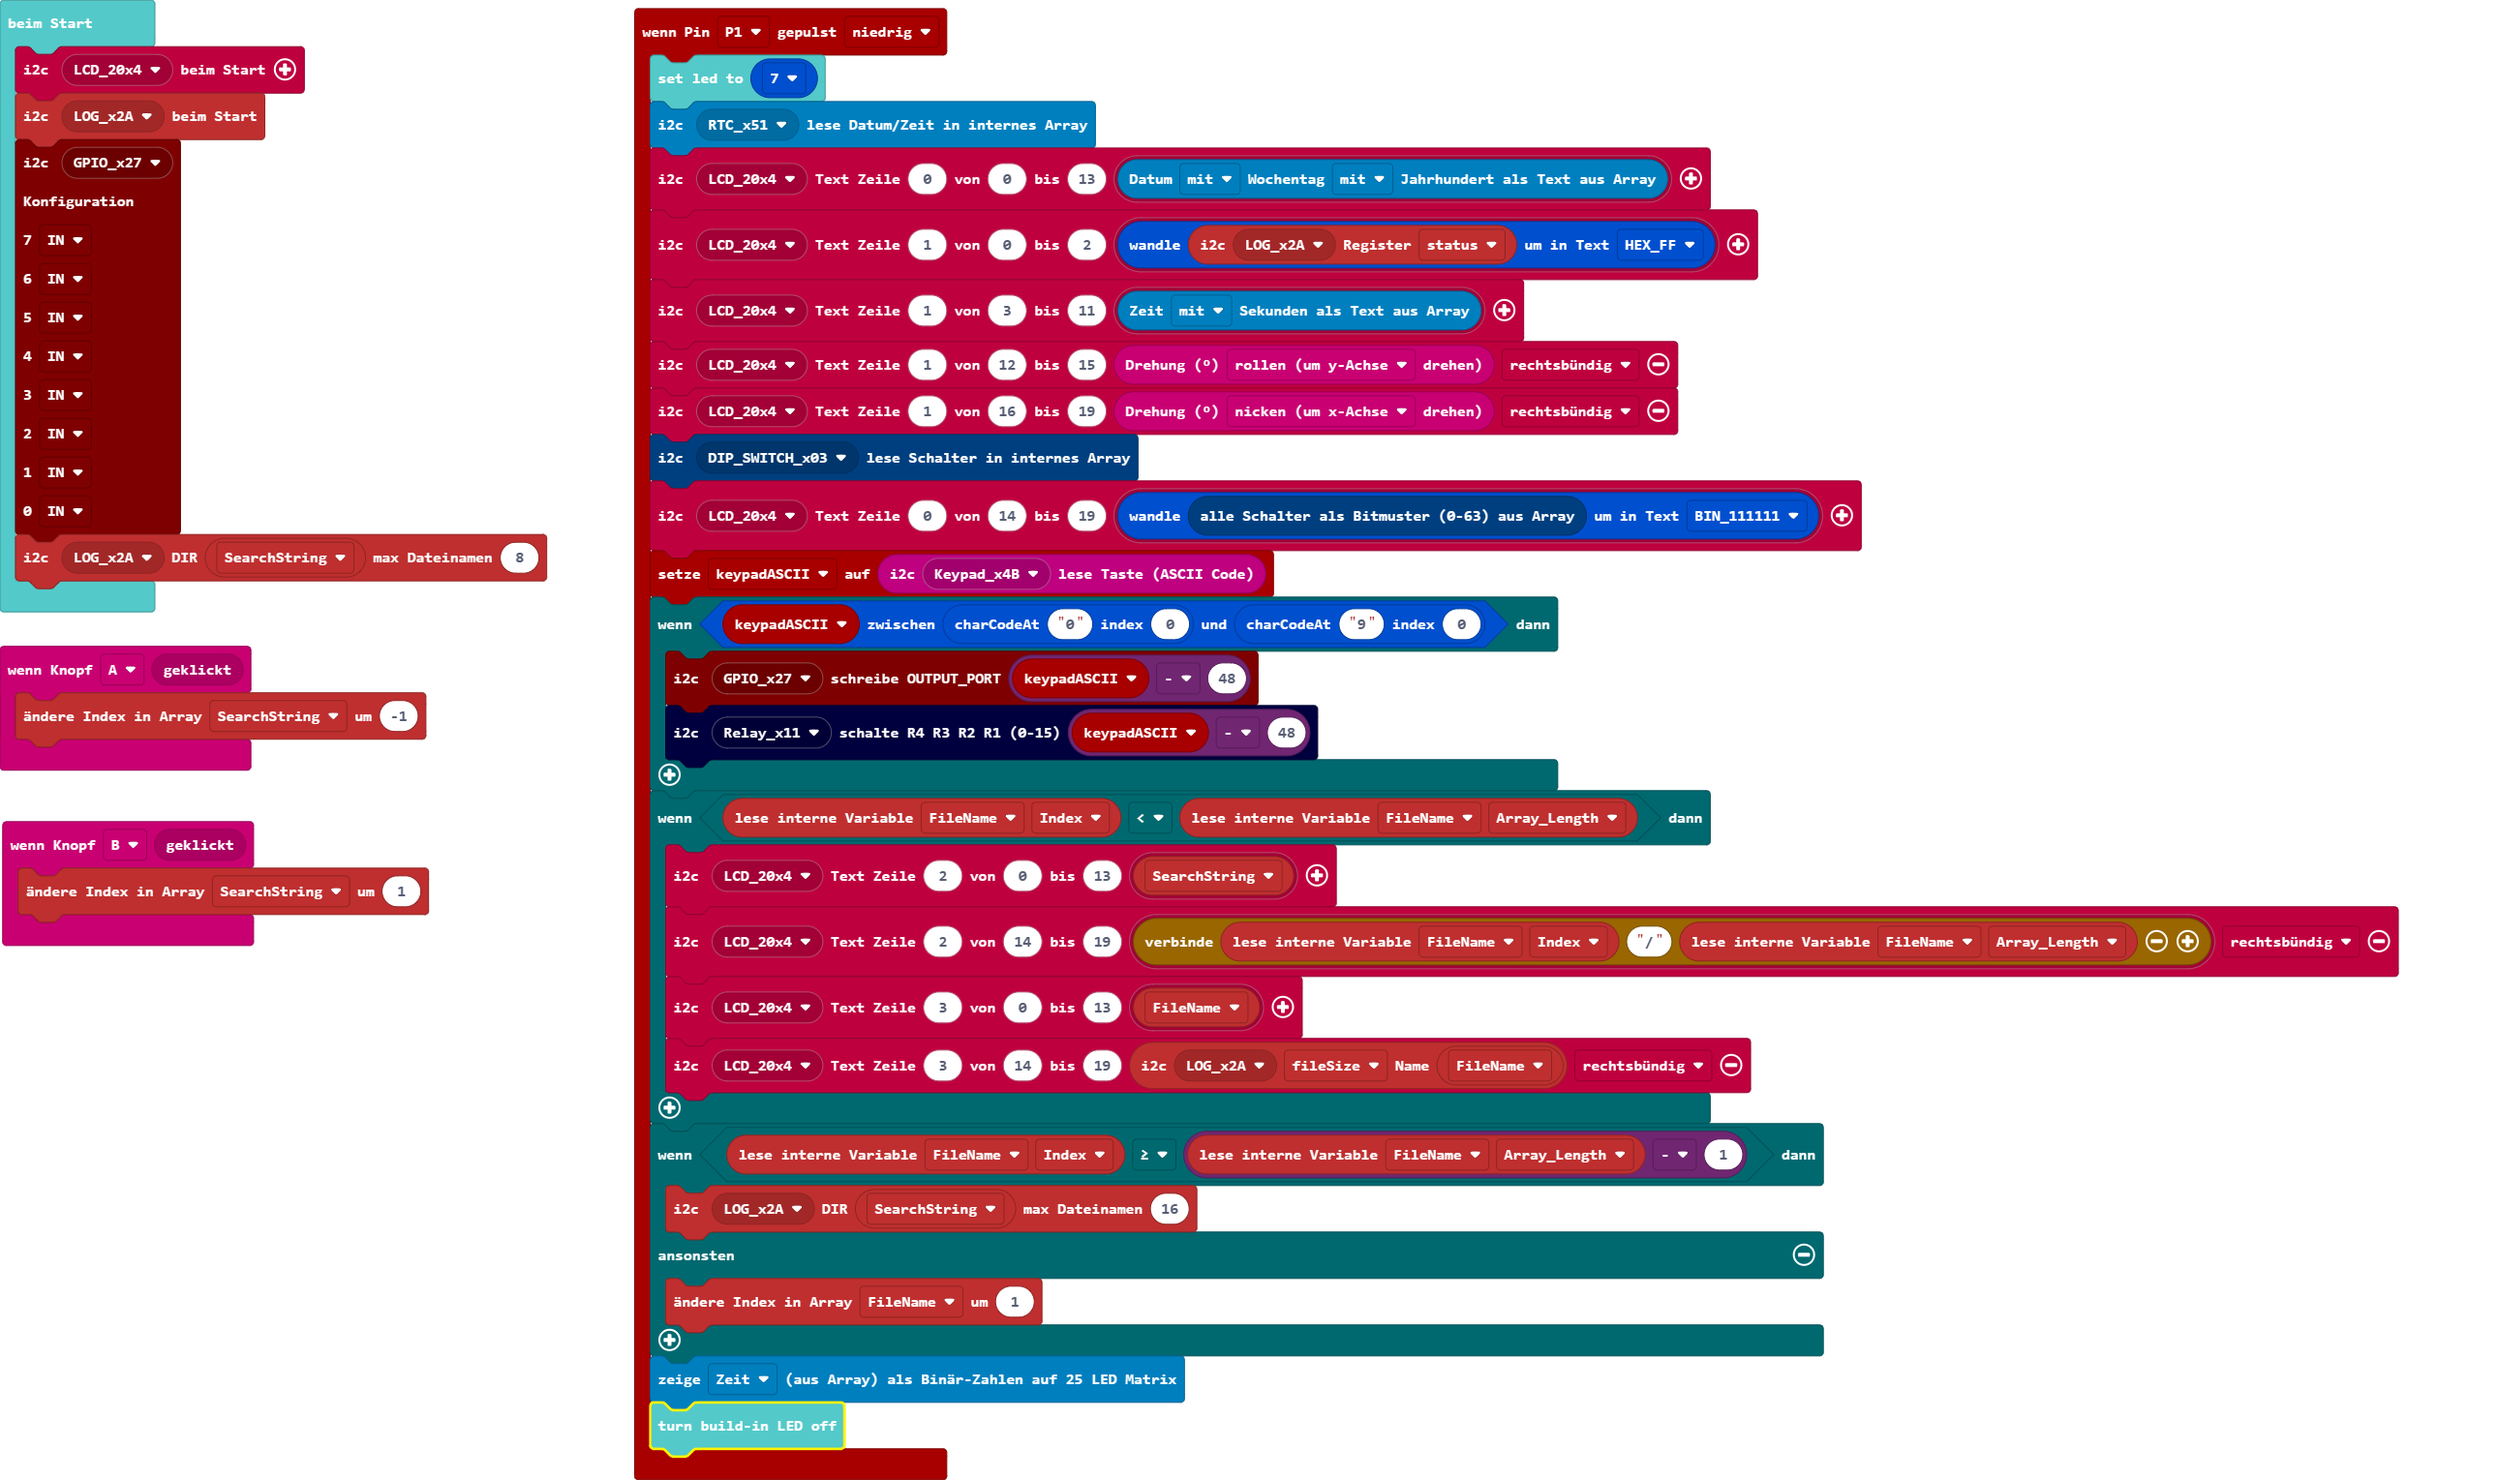
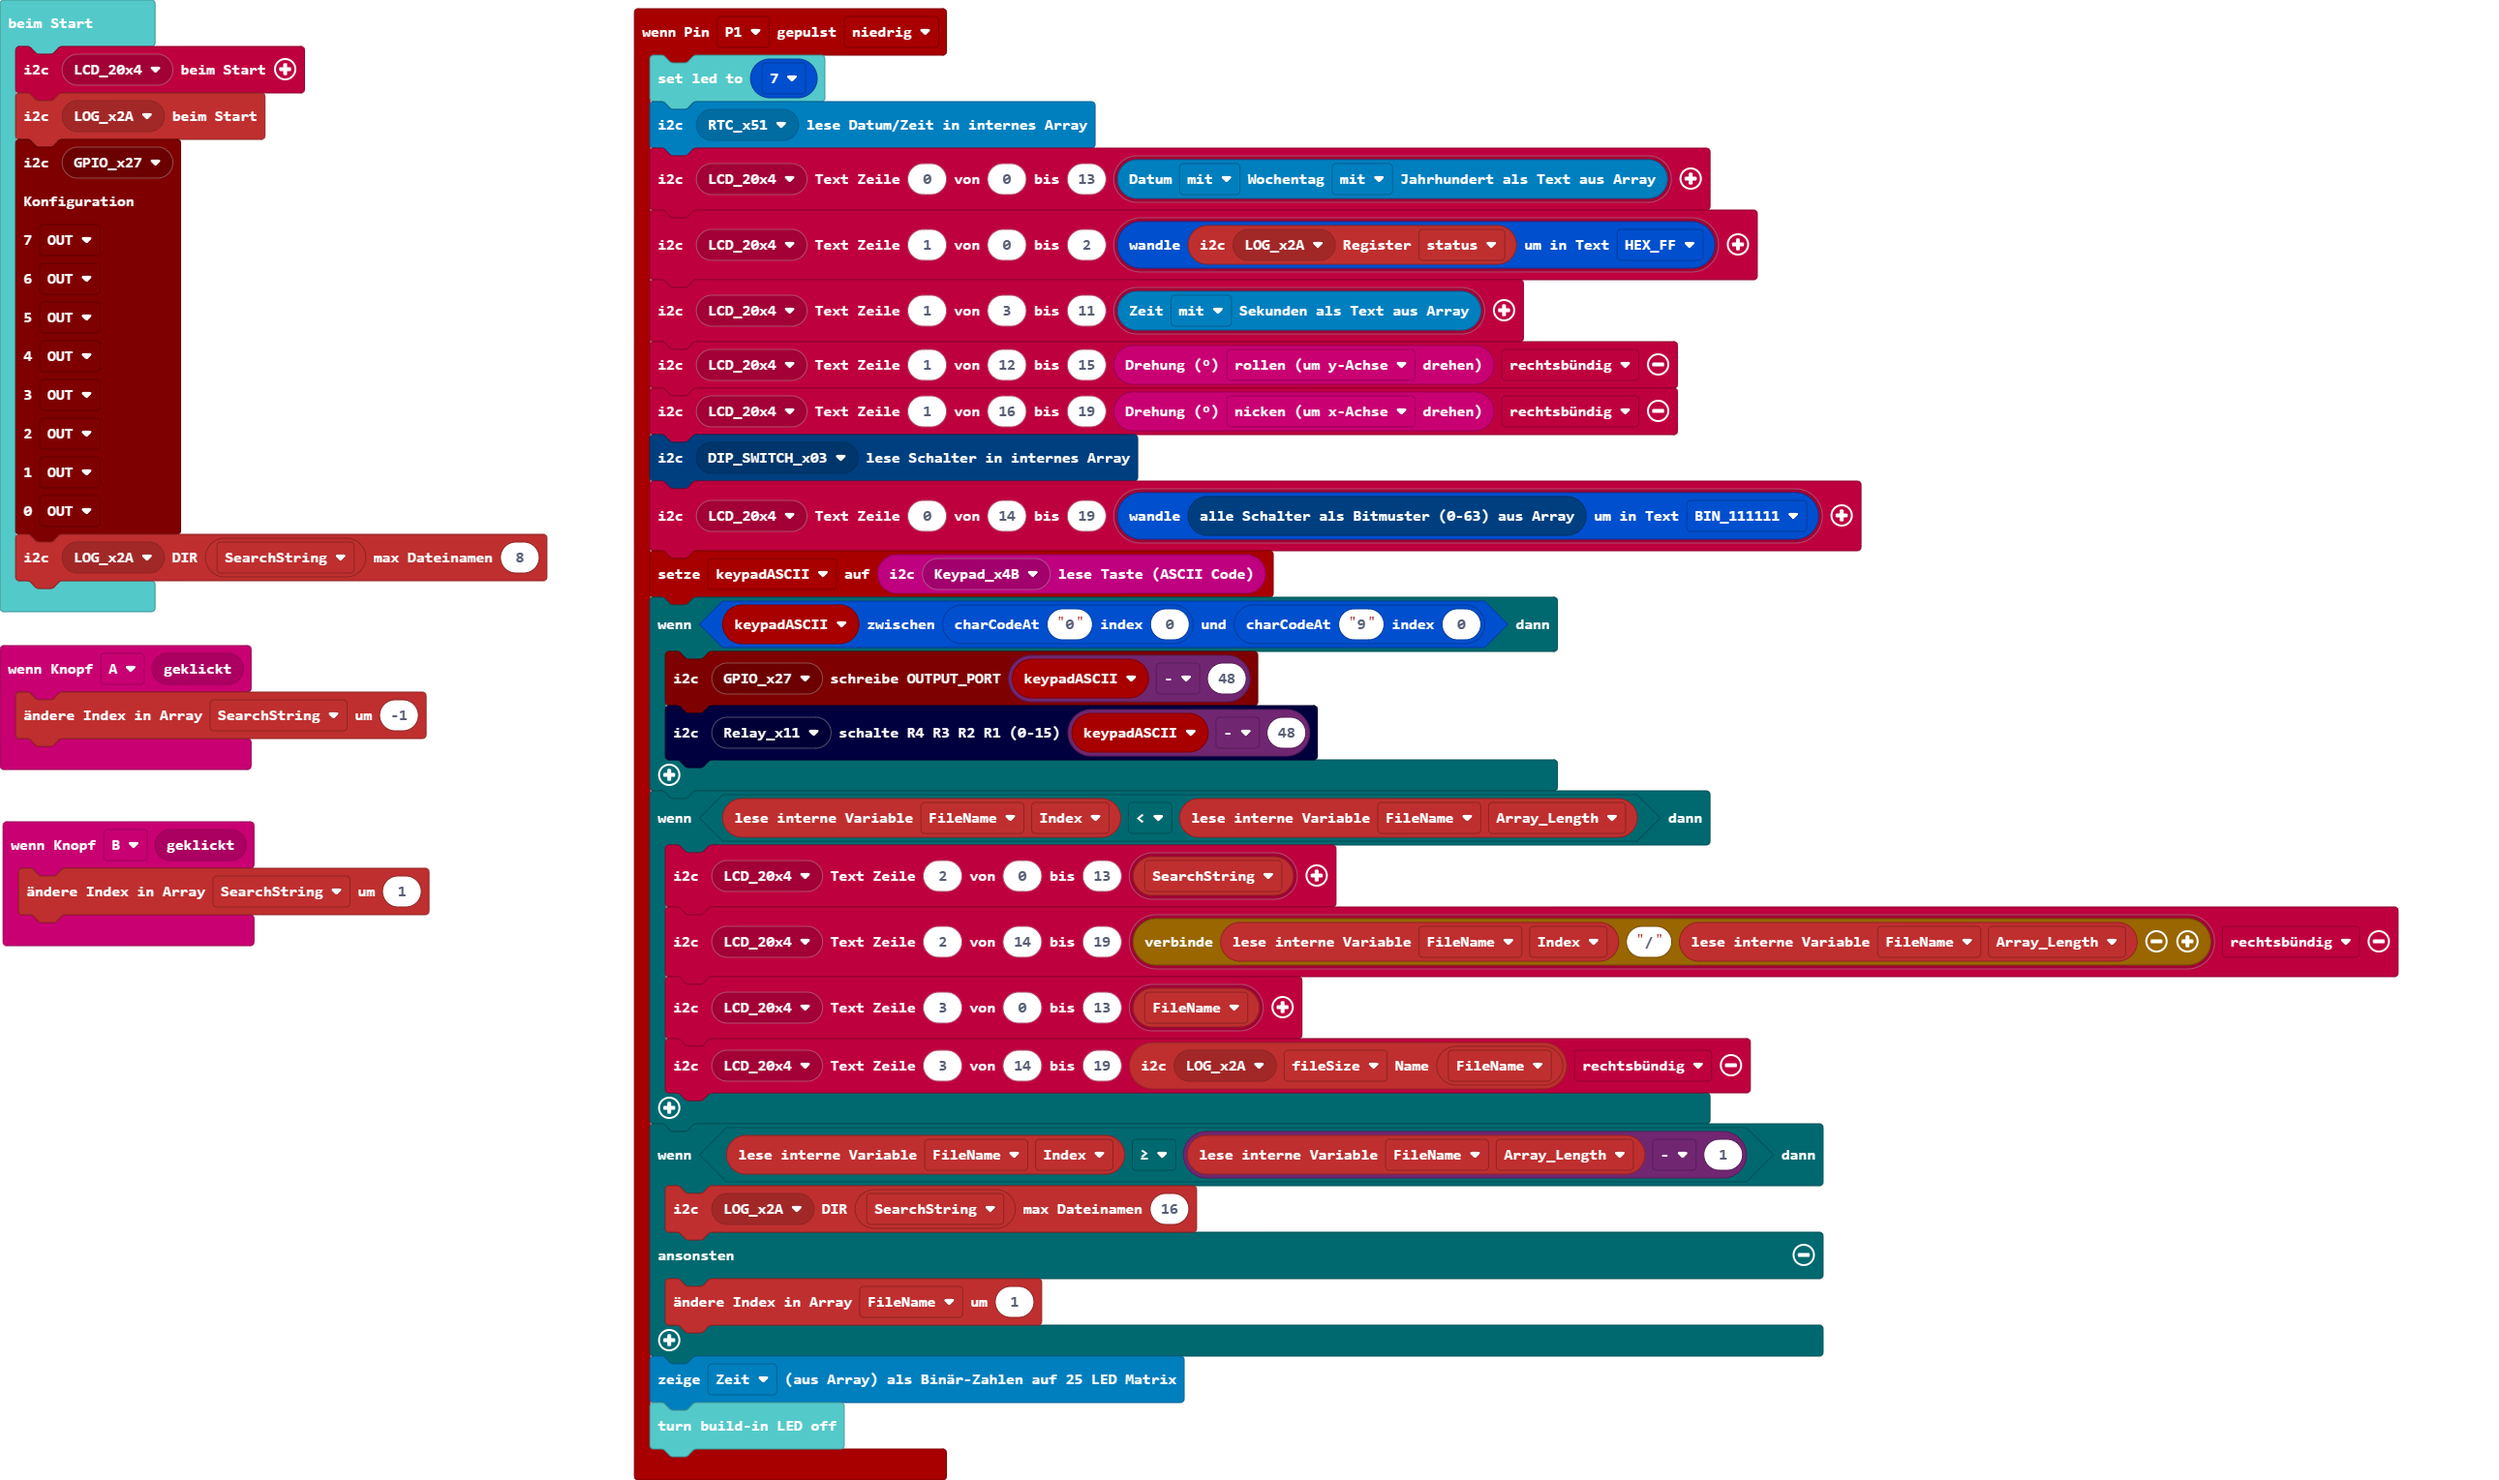
Aktualisiere main.blocks, main.ts

diff --git a/main.ts b/main.ts
@@ -38,13 +38,13 @@ lcd20x4.initLCD(lcd20x4.lcd20x4_eADDR(lcd20x4.eADDR.LCD_20x4))
 qwiicopenlog.checkStatusRegister(qwiicopenlog.qwiicopenlog_eADDR(qwiicopenlog.eADDR.LOG_x2A))
 qwiicgpio.setMode(
 qwiicgpio.qwiicgpio_eADDR(qwiicgpio.eADDR.GPIO_x27),
-qwiicgpio.eIO.IN,
-qwiicgpio.eIO.IN,
-qwiicgpio.eIO.IN,
-qwiicgpio.eIO.IN,
-qwiicgpio.eIO.IN,
-qwiicgpio.eIO.IN,
-qwiicgpio.eIO.IN,
-qwiicgpio.eIO.IN
+qwiicgpio.eIO.OUT,
+qwiicgpio.eIO.OUT,
+qwiicgpio.eIO.OUT,
+qwiicgpio.eIO.OUT,
+qwiicgpio.eIO.OUT,
+qwiicgpio.eIO.OUT,
+qwiicgpio.eIO.OUT,
+qwiicgpio.eIO.OUT
 )
 qwiicopenlog.listDirectory(qwiicopenlog.qwiicopenlog_eADDR(qwiicopenlog.eADDR.LOG_x2A), qwiicopenlog.getString(qwiicopenlog.eArray.SearchString), 8)
